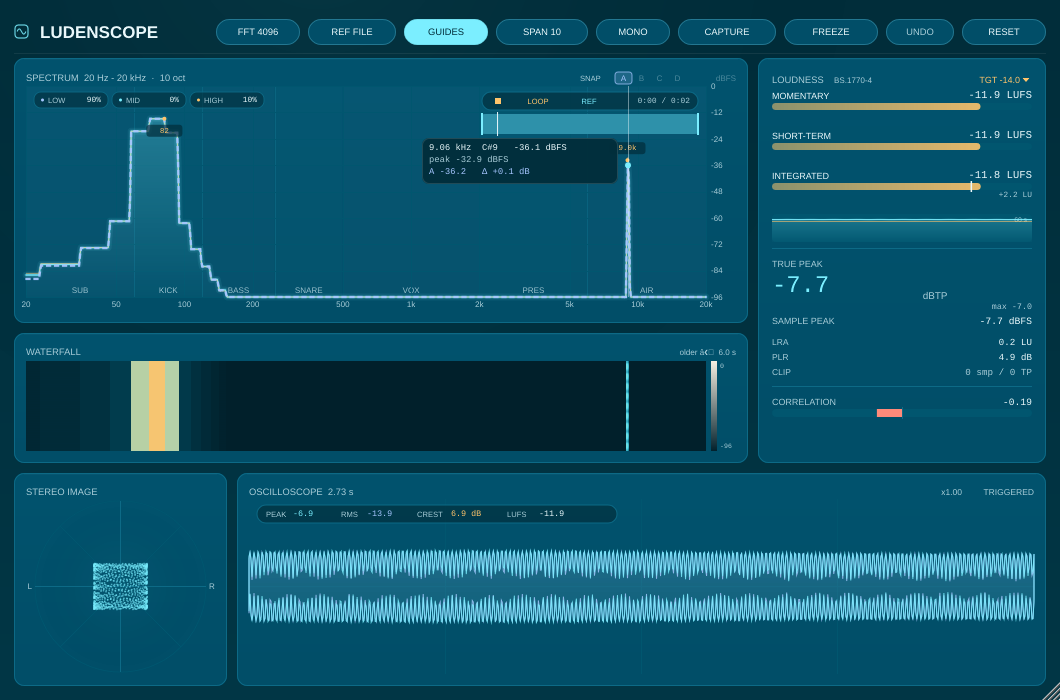
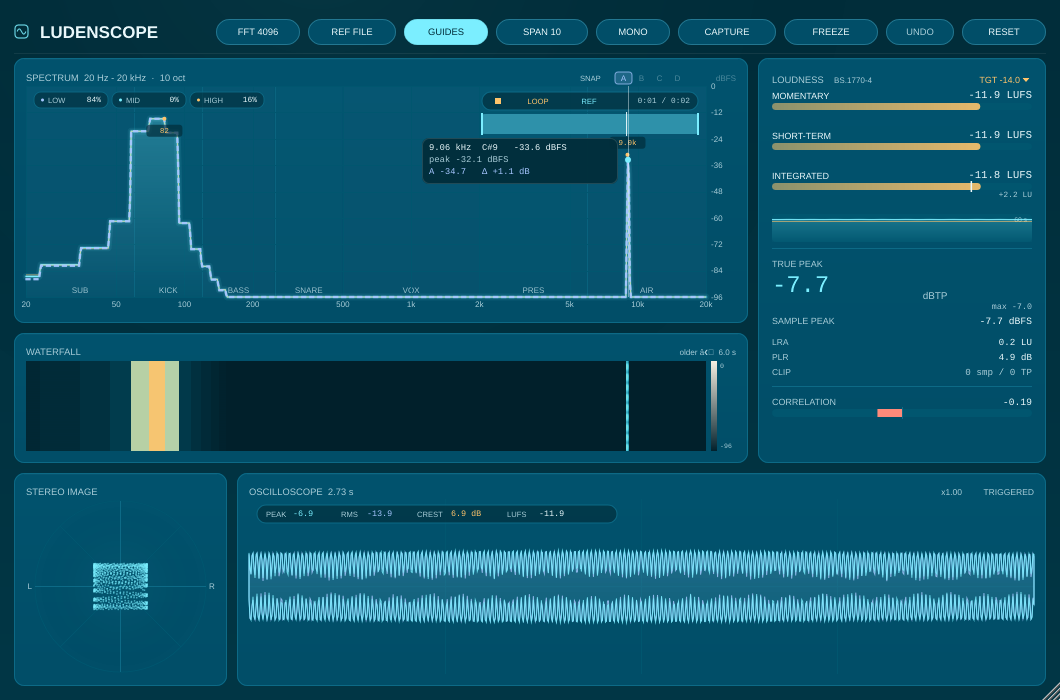
state: keep the reference in the project (v6)
The project blob now stores the reference path, its averaged curve, LUFS
and the loop/position, so a reopened project shows the comparison curve
and reloads the file in the background when it is still on disk. If the
file is missing, the saved curve stays visible and the transport is
cleared; nothing else is lost.

State version 6 (v1-v5 still load). A state load with a different path
drops the old audio so stale playback cannot happen. The UI snapshot test
round-trips the path, the curve bin and the LUFS.

Changed region(s): [[0.2179, 0.78, 0.9962, 0.9], [0.0623, 0.78, 0.1557, 0.87], [0.5604, 0.18, 0.6226, 0.24]]

diff --git a/Source/PluginEditor.cpp b/Source/PluginEditor.cpp
@@ -220,6 +220,7 @@ LudensScopeEditor::LudensScopeEditor (LudensScopeProcessor& p)
 
     applyFftSettings (processor.getFftSettings());
     applyViewSettings (processor.getViewSettings());
+    applyReferenceSettings();
 
     setSize (1060, 700);
     startTimerHz (30);
@@ -524,7 +525,10 @@ void LudensScopeEditor::chooseReferenceFile()
                                        const auto file = chooser.getResult();
 
                                        if (file.existsAsFile())
+                                       {
+                                           pendingReferenceLoopStart = -1.0;
                                            loadReferenceFile (file);
+                                       }
                                    });
 }
 
@@ -540,7 +544,7 @@ void LudensScopeEditor::loadReferenceFile (const juce::File& file)
 
     referenceLoader = std::make_unique<ReferenceLoader> (
         file, targetRate,
-        [safe = juce::Component::SafePointer<LudensScopeEditor> (this)]
+        [safe = juce::Component::SafePointer<LudensScopeEditor> (this), file]
         (ReferenceAnalysis& analysis)
         {
             if (safe == nullptr)
@@ -558,7 +562,17 @@ void LudensScopeEditor::loadReferenceFile (const juce::File& file)
 
             safe->processor.setReferenceAudio (std::move (analysis.audio), analysis.lufs);
             safe->processor.clearUndo();
+            safe->referencePath = file.getFullPathName();
+            safe->processor.setReferenceCurveInfo (safe->referencePath, analysis.levels.data(), true);
             safe->spectrumView.setReferenceWaveform (safe->processor.referenceWaveform());
+
+            if (safe->pendingReferenceLoopStart >= 0.0)
+            {
+                safe->processor.setReferenceLoopRange (safe->pendingReferenceLoopStart,
+                                                       safe->pendingReferenceLoopEnd);
+                safe->processor.setReferencePositionSeconds (safe->pendingReferencePosition);
+                safe->pendingReferenceLoopStart = -1.0;
+            }
         });
 
     referenceLoader->startThread();
@@ -1096,6 +1110,52 @@ void LudensScopeEditor::syncSnapshots()
     spectrumView.setSnapshots (snapshots, snapshotFilled, snapshotSlot);
 }
 
+void LudensScopeEditor::applyReferenceSettings()
+{
+    const auto reference = processor.getReferenceSettings();
+    lastReferenceGeneration = processor.referenceGeneration();
+
+    if (! reference.valid)
+    {
+        hasReference = false;
+        referencePath.clear();
+        spectrumView.setReference (nullptr, false);
+        spectrumView.setReferenceWaveform ({});
+        return;
+    }
+
+    referenceDb = reference.curve;
+    hasReference = true;
+    spectrumView.setReference (referenceDb.data(), true);
+
+    if (processor.hasReferenceAudio() && processor.getReferencePath() == reference.path)
+    {
+        referencePath = reference.path;
+        processor.setReferenceLoopRange (reference.loopStart, reference.loopEnd);
+        processor.setReferencePositionSeconds (reference.position);
+        spectrumView.setReferenceWaveform (processor.referenceWaveform());
+        return;
+    }
+
+    referencePath = reference.path;
+    const juce::File file (reference.path);
+
+    if (file.existsAsFile())
+    {
+        pendingReferenceLoopStart = reference.loopStart;
+        pendingReferenceLoopEnd = reference.loopEnd;
+        pendingReferencePosition = reference.position;
+        loadReferenceFile (file);
+    }
+    else
+    {
+        if (processor.hasReferenceAudio())
+            processor.unloadReferenceAudio();
+
+        spectrumView.setReferenceWaveform ({});
+    }
+}
+
 void LudensScopeEditor::undoReset()
 {
     if (! processor.hasUndo())
@@ -1113,6 +1173,8 @@ void LudensScopeEditor::undoReset()
     {
         processor.restoreReferenceAudio (undoReferenceAudio, undoReferenceLufs,
                                          undoLoopStart, undoLoopEnd, undoPosition);
+        processor.setReferenceCurveInfo (undoReferencePath, undoReferenceDb.data(), true);
+        referencePath = undoReferencePath;
         hasReference = true;
         referenceDb = undoReferenceDb;
         spectrumView.setReference (referenceDb.data(), true);
@@ -1158,6 +1220,7 @@ void LudensScopeEditor::resetDisplay()
         const double rate = preparedSampleRate > 0.0 ? preparedSampleRate : 48000.0;
         undoPosition = (double) processor.referencePositionSamples() / rate;
         undoReferenceDb = referenceDb;
+        undoReferencePath = referencePath;
     }
 
     undoTruePeakOvers = truePeakOvers;
@@ -1173,6 +1236,7 @@ void LudensScopeEditor::resetDisplay()
     truePeakRight.reset();
 
     hasReference = false;
+    referencePath.clear();
     spectrumView.setReference (nullptr, false);
     spectrogramView.clear();
 

diff --git a/Source/PluginProcessor.cpp b/Source/PluginProcessor.cpp
@@ -7,7 +7,7 @@
 namespace
 {
     constexpr int snapshotMagic = 0x4c444e53; // 'LDNS'
-    constexpr int snapshotVersion = 5;
+    constexpr int snapshotVersion = 6;
 }
 
 LudensScopeProcessor::LudensScopeProcessor()
@@ -144,6 +144,68 @@ void LudensScopeProcessor::clearReferenceAudio()
     referencePlaying.store (false);
     referenceAudible.store (false);
     referenceWaveformData.clear();
+
+    referencePath.clear();
+    referenceCurveValid = false;
+    savedReferenceLoopStart = 0.0;
+    savedReferenceLoopEnd = 0.0;
+    savedReferencePosition = 0.0;
+    referenceGenerationValue.fetch_add (1);
+}
+
+void LudensScopeProcessor::setReferenceCurveInfo (const juce::String& path,
+                                                  const float* curveDb, bool valid)
+{
+    referencePath = path;
+    referenceCurveValid = valid && curveDb != nullptr;
+
+    if (curveDb != nullptr)
+        std::copy (curveDb, curveDb + 512, referenceCurve.begin());
+
+    referenceGenerationValue.fetch_add (1);
+}
+
+LudensScopeProcessor::ReferenceSettings LudensScopeProcessor::getReferenceSettings() const
+{
+    ReferenceSettings settings;
+    settings.path = referencePath;
+    settings.curve = referenceCurve;
+    settings.valid = referenceCurveValid;
+    settings.lufs = referenceLufsValue.load (std::memory_order_relaxed);
+
+    const double rate = getSampleRate() > 0.0 ? getSampleRate() : 48000.0;
+
+    if (referenceLength.load (std::memory_order_relaxed) > 0)
+    {
+        settings.loopStart = (double) referenceLoopStart.load (std::memory_order_relaxed) / rate;
+        settings.loopEnd = (double) referenceLoopEnd.load (std::memory_order_relaxed) / rate;
+        settings.position = (double) referencePosition.load (std::memory_order_relaxed) / rate;
+    }
+    else
+    {
+        settings.loopStart = savedReferenceLoopStart;
+        settings.loopEnd = savedReferenceLoopEnd;
+        settings.position = savedReferencePosition;
+    }
+
+    return settings;
+}
+
+void LudensScopeProcessor::unloadReferenceAudio() noexcept
+{
+    {
+        const juce::SpinLock::ScopedLockType guard (referenceLock);
+        referenceAudio.reset();
+    }
+
+    referenceLength.store (0);
+    referencePosition.store (0);
+    referenceLoopStart.store (0);
+    referenceLoopEnd.store (0);
+    referencePlaying.store (false);
+    referenceAudible.store (false);
+    referenceWaveformData.clear();
+    referenceGenerationValue.fetch_add (1);
 }
 
 void LudensScopeProcessor::setReferencePositionSeconds (double seconds) noexcept
@@ -543,6 +605,18 @@ void LudensScopeProcessor::getStateInformation (juce::MemoryBlock& destData)
     stream.writeInt (viewSettingsValue.waterfallHistory);
     stream.writeInt (viewSettingsValue.oscWindow);
     stream.writeFloat (viewSettingsValue.oscGain);
+
+    const auto reference = getReferenceSettings();
+    stream.writeString (reference.path);
+    stream.writeBool (reference.valid);
+
+    for (const float value : reference.curve)
+        stream.writeFloat (value);
+
+    stream.writeFloat (reference.lufs);
+    stream.writeDouble (reference.loopStart);
+    stream.writeDouble (reference.loopEnd);
+    stream.writeDouble (reference.position);
 }
 
 void LudensScopeProcessor::setStateInformation (const void* data, int sizeInBytes)
@@ -561,7 +635,7 @@ void LudensScopeProcessor::setStateInformation (const void* data, int sizeInByte
     const int selected = stream.readInt();
 
     if (magic != snapshotMagic
-        || (version != 1 && version != 2 && version != 3 && version != 4 && version != 5)
+        || (version < 1 || version > 6)
         || slots != snapshotSlots || bins != snapshotBins)
         return;
 
@@ -628,6 +702,28 @@ void LudensScopeProcessor::setStateInformation (const void* data, int sizeInByte
         }
 
         viewSettingsValue = view;
+    }
+
+    if (version >= 6)
+    {
+        const juce::String savedPath = stream.readString();
+        const bool samePath = savedPath == referencePath;
+
+        referenceCurveValid = stream.readBool();
+
+        for (int i = 0; i < 512; ++i)
+            referenceCurve[(size_t) i] = stream.readFloat();
+
+        referenceLufsValue.store (stream.readFloat());
+        savedReferenceLoopStart = stream.readDouble();
+        savedReferenceLoopEnd = stream.readDouble();
+        savedReferencePosition = stream.readDouble();
+
+        if (! samePath)
+            unloadReferenceAudio();
+
+        referencePath = savedPath;
+        referenceGenerationValue.fetch_add (1);
     }
 
     clearUndo();

diff --git a/Tests/UiSnapshot.cpp b/Tests/UiSnapshot.cpp
@@ -275,6 +275,9 @@ int main (int argc, char** argv)
     testView.oscGain = 2.0f;
     processor.setViewSettings (testView);
 
+    processor.setReferenceCurveInfo (referenceFile.getFullPathName(),
+                                     referenceAnalysis.levels.data(), true);
+
     juce::MemoryBlock projectState;
     processor.getStateInformation (projectState);
     processor.clearSnapshots();
@@ -282,6 +285,7 @@ int main (int argc, char** argv)
 
     const auto restoredSettings = processor.getFftSettings();
     const auto restoredView = processor.getViewSettings();
+    const auto restoredReference = processor.getReferenceSettings();
     const bool settingsPersisted = restoredSettings.fftSize == 8192
         && restoredSettings.timingPreset == 2
         && restoredSettings.windowType == 2
@@ -303,9 +307,14 @@ int main (int argc, char** argv)
         && restoredView.oscWindow == 4096
         && std::abs (restoredView.oscGain - 2.0f) < 0.01f;
 
+    const bool referencePersisted = restoredReference.valid
+        && restoredReference.path == referenceFile.getFullPathName()
+        && std::abs (restoredReference.curve[289] - referenceAnalysis.levels[289]) < 1.0e-4f
+        && std::abs (restoredReference.lufs - referenceAnalysis.lufs) < 0.1f;
+
     const bool snapshotPersisted = processor.isSnapshotFilled (1)
         && std::abs (processor.snapshotLevels (1)[100] - testLevels[100]) < 1.0e-4f
-        && settingsPersisted && viewPersisted;
+        && settingsPersisted && viewPersisted && referencePersisted;
     std::printf ("snapshot state round-trip: %s\n",
                  snapshotPersisted && settingsPersisted && viewPersisted ? "ok" : "FAIL");
 
@@ -379,5 +388,6 @@ int main (int argc, char** argv)
 
     editor.reset();
     return clipped == 2 && undoOk && referenceOk && snapshotPersisted && settingsPersisted
+           && referencePersisted
            && viewPersisted && soloOk && loopOk && waveformOk ? 0 : 1;
 }

diff --git a/Source/PluginProcessor.h b/Source/PluginProcessor.h
@@ -89,6 +89,27 @@ public:
                                 double loopStartSeconds, double loopEndSeconds,
                                 double positionSeconds);
 
+    // Reference metadata that survives in the project even when the audio
+    // file cannot be reloaded.
+    struct ReferenceSettings
+    {
+        juce::String path;
+        std::array<float, 512> curve {};
+        bool valid = false;
+        float lufs = -100.0f;
+        double loopStart = 0.0;
+        double loopEnd = 0.0;
+        double position = 0.0;
+    };
+
+    void setReferenceCurveInfo (const juce::String& path, const float* curveDb, bool valid);
+    juce::String getReferencePath() const { return referencePath; }
+    ReferenceSettings getReferenceSettings() const;
+    int referenceGeneration() const noexcept { return referenceGenerationValue.load(); }
+
+    // Drop the audio but keep path/curve so the saved reference still shows.
+    void unloadReferenceAudio() noexcept;
+
     // Band solo: high-pass + low-pass pair on the output (monitoring aid).
     void setBandSolo (bool active, float lowHz, float highHz);
     bool isBandSolo() const noexcept { return bandSoloActive.load(); }
@@ -208,6 +229,14 @@ private:
 
     static constexpr int referenceWaveformColumns = 256;
     std::vector<float> referenceWaveformData;
+
+    juce::String referencePath;
+    std::array<float, 512> referenceCurve {};
+    bool referenceCurveValid = false;
+    std::atomic<int> referenceGenerationValue { 0 };
+    double savedReferenceLoopStart = 0.0;
+    double savedReferenceLoopEnd = 0.0;
+    double savedReferencePosition = 0.0;
 
     std::array<std::array<float, snapshotBins>, snapshotSlots> snapshots {};
     std::array<bool, snapshotSlots> snapshotFilled {};

diff --git a/Source/PluginEditor.h b/Source/PluginEditor.h
@@ -62,6 +62,7 @@ private:
     void clearGuideSolo();
     void applyViewSettings (const LudensScopeProcessor::ViewSettings& settings);
     void saveViewSettings();
+    void applyReferenceSettings();
     void undoReset();
     void exportViewPng();
     void applySmoothing();
@@ -117,8 +118,15 @@ private:
     double undoLoopEnd = 0.0;
     double undoPosition = 0.0;
     bool undoReferenceValid = false;
+    juce::String undoReferencePath;
     int undoTruePeakOvers = 0;
     float undoTruePeakHold = -100.0f;
+
+    juce::String referencePath;
+    double pendingReferenceLoopStart = -1.0;
+    double pendingReferenceLoopEnd = -1.0;
+    double pendingReferencePosition = 0.0;
+    int lastReferenceGeneration = 0;
 
     std::unique_ptr<juce::FileChooser> referenceChooser;
     std::unique_ptr<ReferenceLoader> referenceLoader;

diff --git a/README.md b/README.md
@@ -104,16 +104,18 @@ cmake --build --preset dev -j$(nproc)
    время) и полоса перемотки: клик перематывает, перетаскивание задаёт
    loop-диапазон, его края двигаются отдельно; на полосе рисуется волна
    загруженного файла. Громкость референса подгоняется
-   под текущий integrated микса. Файлы
+   под текущий integrated микса. Референс сохраняется в проекте (путь,
+   кривая, LUFS и loop-точки): при открытии файл подгружается заново, а если
+   он не найден — остаётся кривая для сравнения. Файлы
    длиннее 10 минут обрезаются. `FREEZE` — стопор кадров, `RESET` — сброс
    пиков, громкости, выбранного снапшота, референса и счётчиков; `UNDO`
    возвращает состояние до последнего сброса (интегрированную громкость,
    LRA, снапшот, референс и счётчики). В меню `FFT` есть
    экспорт снапшотов в CSV (бин, частота, уровни A–D).
-   В состоянии проекта сохраняются снапшоты, все настройки FFT и вид:
-   жанр и включённость guides, M/S-кривая, маркеры пиков, разностная
+   В состоянии проекта сохраняются снапшоты, все настройки FFT, вид
+   (жанр и включённость guides, M/S-кривая, маркеры пиков, разностная
    заливка, цель LUFS, SPAN/диапазон, скорость водопада и окно/усиление
-   осциллографа.
+   осциллографа) и метаданные референса.
 
 Горячие клавиши: `Space` — play/stop референса, `A` — A/B, `F` — freeze,
 `Esc` — снять соло полосы.
